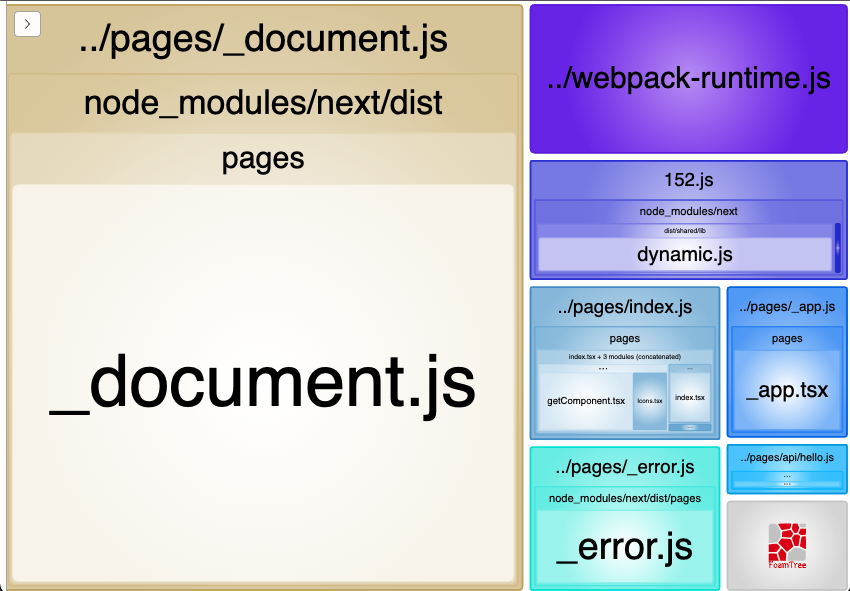
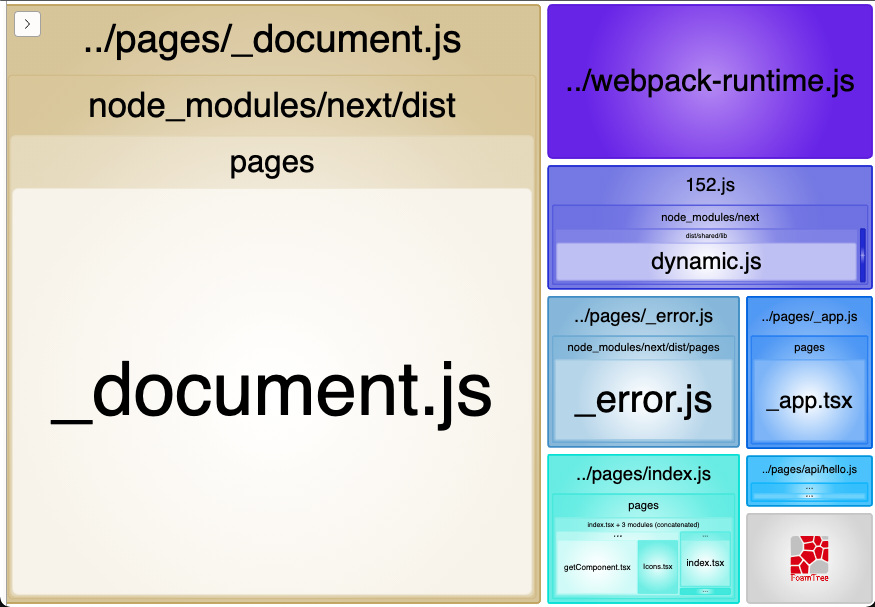
With bug, again

diff --git a/components/getComponent.tsx b/components/getComponent.tsx
@@ -1,16 +1,18 @@
 import { ComponentType } from "react";
 import dynamic from "next/dynamic";
 
+import { componentType as FooType } from "./Foo";
+import { componentType as IconsType } from "./Icons";
+
 const Foo = dynamic(() => import("./Foo"));
-const Icons = dynamic(() => import("./Icons"));
 
 export function getComponent(type: string): ComponentType<any> {
   switch (type) {
-    case "Foo":
+    case FooType:
       return Foo;
 
-    case "Icons":
-      return Icons;
+    case IconsType:
+      return Foo; // this is a bug!
 
     default:
       throw Error(`Dont have component type ${type}`);

diff --git a/README.md b/README.md
@@ -82,22 +82,22 @@ Here's our diff.
 
 In `getComponent`
 ```diff
- import { ComponentType } from "react";
- import dynamic from "next/dynamic";
-
 +import { componentType as FooType } from "./Foo";
 +import { componentType as IconsType } from "./Icons";
 +
+ const Foo = dynamic(() => import("./Foo"));
+-const Icons = dynamic(() => import("./Icons"));
+
  export function getComponent(type: string): ComponentType<any> {
    switch (type) {
 -    case "Foo":
 +    case FooType:
-       return dynamic(import("./Foo"));
+       return Foo;
 
 -    case "Icons":
--      return dynamic(import("./Icons"));
+-      return Icons;
 +    case IconsType:
-+      return dynamic(import("./Foo")); // this is a bug!
++      return Foo; // this is a bug!
 
      default:
        throw Error(`Dont have component type ${type}`);
